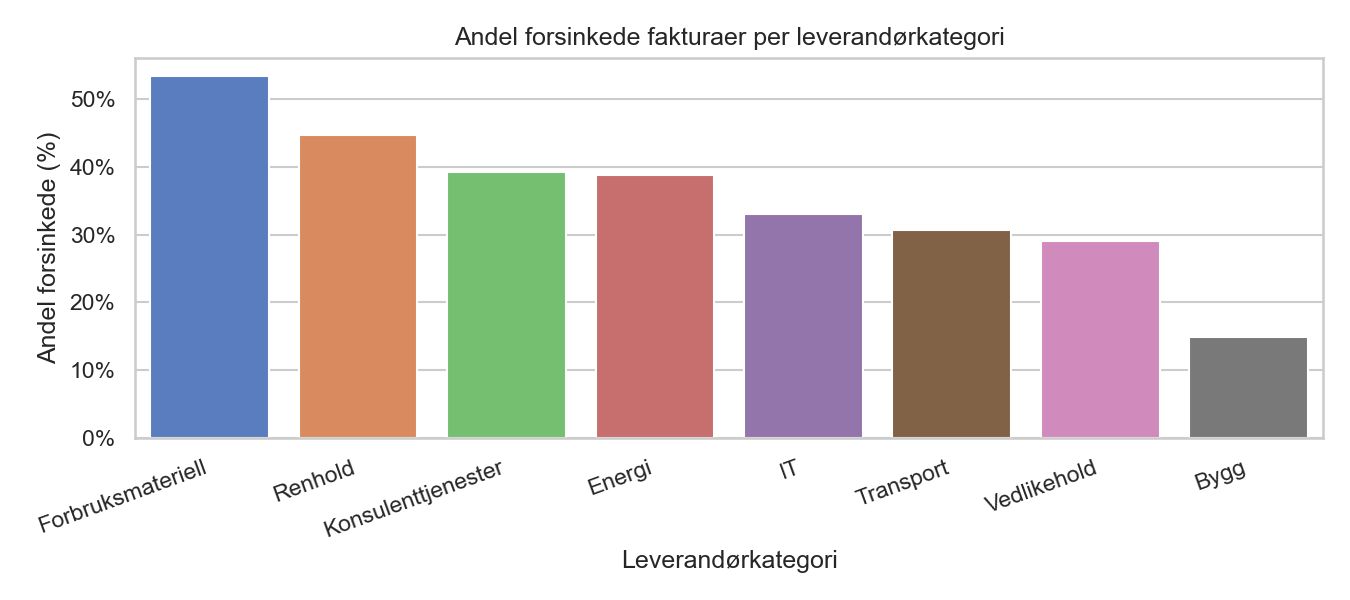
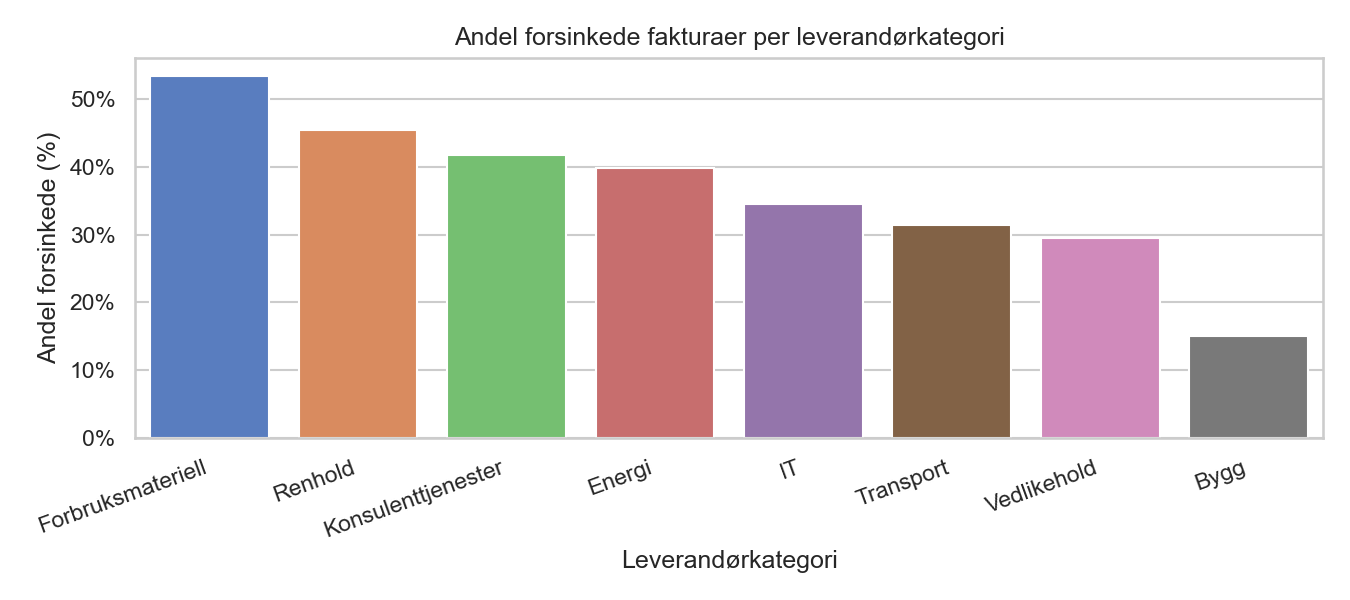
endring modeller

diff --git a/004 data/eda.py b/004 data/eda.py
@@ -54,6 +54,13 @@ else:
 # ── 3. Lag binær målvariabel ──────────────────────────────────────────────────
 df["er_forsinket"] = (df["Betalingsstatus"] == "Forsinket").astype(int)
 
+# ── 3b. Ekskluder «Ubetalt»-fakturaer (ukjent utfall) ─────────────────────────
+# Disse 29 fakturaene har ukjent betalingsutfall og holdes utenfor både EDA og
+# modellering, slik at EDA-populasjonen (971) er identisk med modelleringssettet.
+n_for = len(df)
+df = df[df["Betalingsstatus"] != "Ubetalt"].reset_index(drop=True)
+print(f"  «Ubetalt»-fakturaer ekskludert: {n_for - len(df)} – {len(df)} rader brukes videre.")
+
 # ── 4. Klasseubalanse ─────────────────────────────────────────────────────────
 print("\n" + "=" * 60)
 print("3. KLASSEUBALANSE (målvariabel)")
@@ -153,12 +160,12 @@ ris = (df.groupby("Risikokategori leverandør")["er_forsinket"]
          .agg(["sum", "count"])
          .rename(columns={"sum": "forsinket", "count": "totalt"}))
 ris["andel_%"] = (ris["forsinket"] / ris["totalt"] * 100).round(1)
-order = ["Medium", "Høy", "Kritisk"]
+order = ["Lav", "Medium", "Høy", "Kritisk"]
 ris = ris.reindex([o for o in order if o in ris.index])
 print(ris.to_string())
 
 fig, ax = plt.subplots(figsize=(6, 4))
-colors = {"Medium": "steelblue", "Høy": "orange", "Kritisk": "tomato"}
+colors = {"Lav": "seagreen", "Medium": "steelblue", "Høy": "orange", "Kritisk": "tomato"}
 bars = ax.bar(ris.index, ris["andel_%"],
               color=[colors.get(k, "gray") for k in ris.index])
 ax.set_ylabel("Andel forsinkede (%)")
@@ -298,7 +305,7 @@ print(bunn10.to_string(index=True))
 topp15 = lev.head(15)
 fig, ax = plt.subplots(figsize=(10, 5))
 colors = topp15["risikokategori"].map(
-    {"Medium": "steelblue", "Høy": "orange", "Kritisk": "tomato"}
+    {"Lav": "seagreen", "Medium": "steelblue", "Høy": "orange", "Kritisk": "tomato"}
 ).fillna("gray")
 bars = ax.barh(topp15["Leverandør-ID"][::-1], topp15["risikoscore"][::-1],
                color=colors[::-1])
@@ -311,6 +318,7 @@ legend_elements = [
     Patch(facecolor="tomato",    label="Kritisk"),
     Patch(facecolor="orange",    label="Høy"),
     Patch(facecolor="steelblue", label="Medium"),
+    Patch(facecolor="seagreen",  label="Lav"),
 ]
 ax.legend(handles=legend_elements, loc="lower right")
 plt.tight_layout()
@@ -321,7 +329,7 @@ print("\n  → Figur lagret: 07_leverandor_risikoscore.png")
 # ── C. Figur: Scatter – andel forsinket vs. snitt dager forsinket ─
 fig, ax = plt.subplots(figsize=(9, 6))
 scatter_colors = lev["risikokategori"].map(
-    {"Medium": "steelblue", "Høy": "orange", "Kritisk": "tomato"}
+    {"Lav": "seagreen", "Medium": "steelblue", "Høy": "orange", "Kritisk": "tomato"}
 ).fillna("gray")
 sc = ax.scatter(
     lev["andel_forsinket_pct"],

diff --git a/004 data/model.py b/004 data/model.py
@@ -51,12 +51,16 @@ df = pd.read_csv(CSV)
 bool_cols = df.select_dtypes(include="bool").columns
 df[bool_cols] = df[bool_cols].astype(int)
 
-# Ekskluder «Ubetalt»-fakturaer – de har ukjent utfall og er feilmerket
-# som klasse 0 (i tide) i features.csv. Les Betalingsstatus fra råfilen.
+# features.csv er renset i eda.py (de 29 «Ubetalt»-fakturaene med ukjent utfall
+# er allerede ekskludert). Bakoverkompatibel sikring: dersom en eldre, uren
+# features.csv (1000 rader, der Ubetalt er feilmerket som klasse 0) brukes,
+# ekskluderes radene her via råfilen. Begge veier gir identiske 971 rader.
 raw = pd.read_csv(RAW_CSV)
-gyldig_idx = raw[raw["Betalingsstatus"] != "Ubetalt"].index
-df = df.iloc[gyldig_idx].reset_index(drop=True)
-print(f"  29 «Ubetalt»-fakturaer ekskludert – {len(df)} rader brukes til modellering.")
+if len(df) == len(raw):
+    gyldig_idx = raw[raw["Betalingsstatus"] != "Ubetalt"].index
+    df = df.iloc[gyldig_idx].reset_index(drop=True)
+    print(f"  Uren features.csv – {len(raw) - len(df)} «Ubetalt» ekskludert.")
+print(f"  {len(df)} rader brukes til modellering.")
 
 X = df.drop(columns=["er_forsinket"])
 y = df["er_forsinket"]
